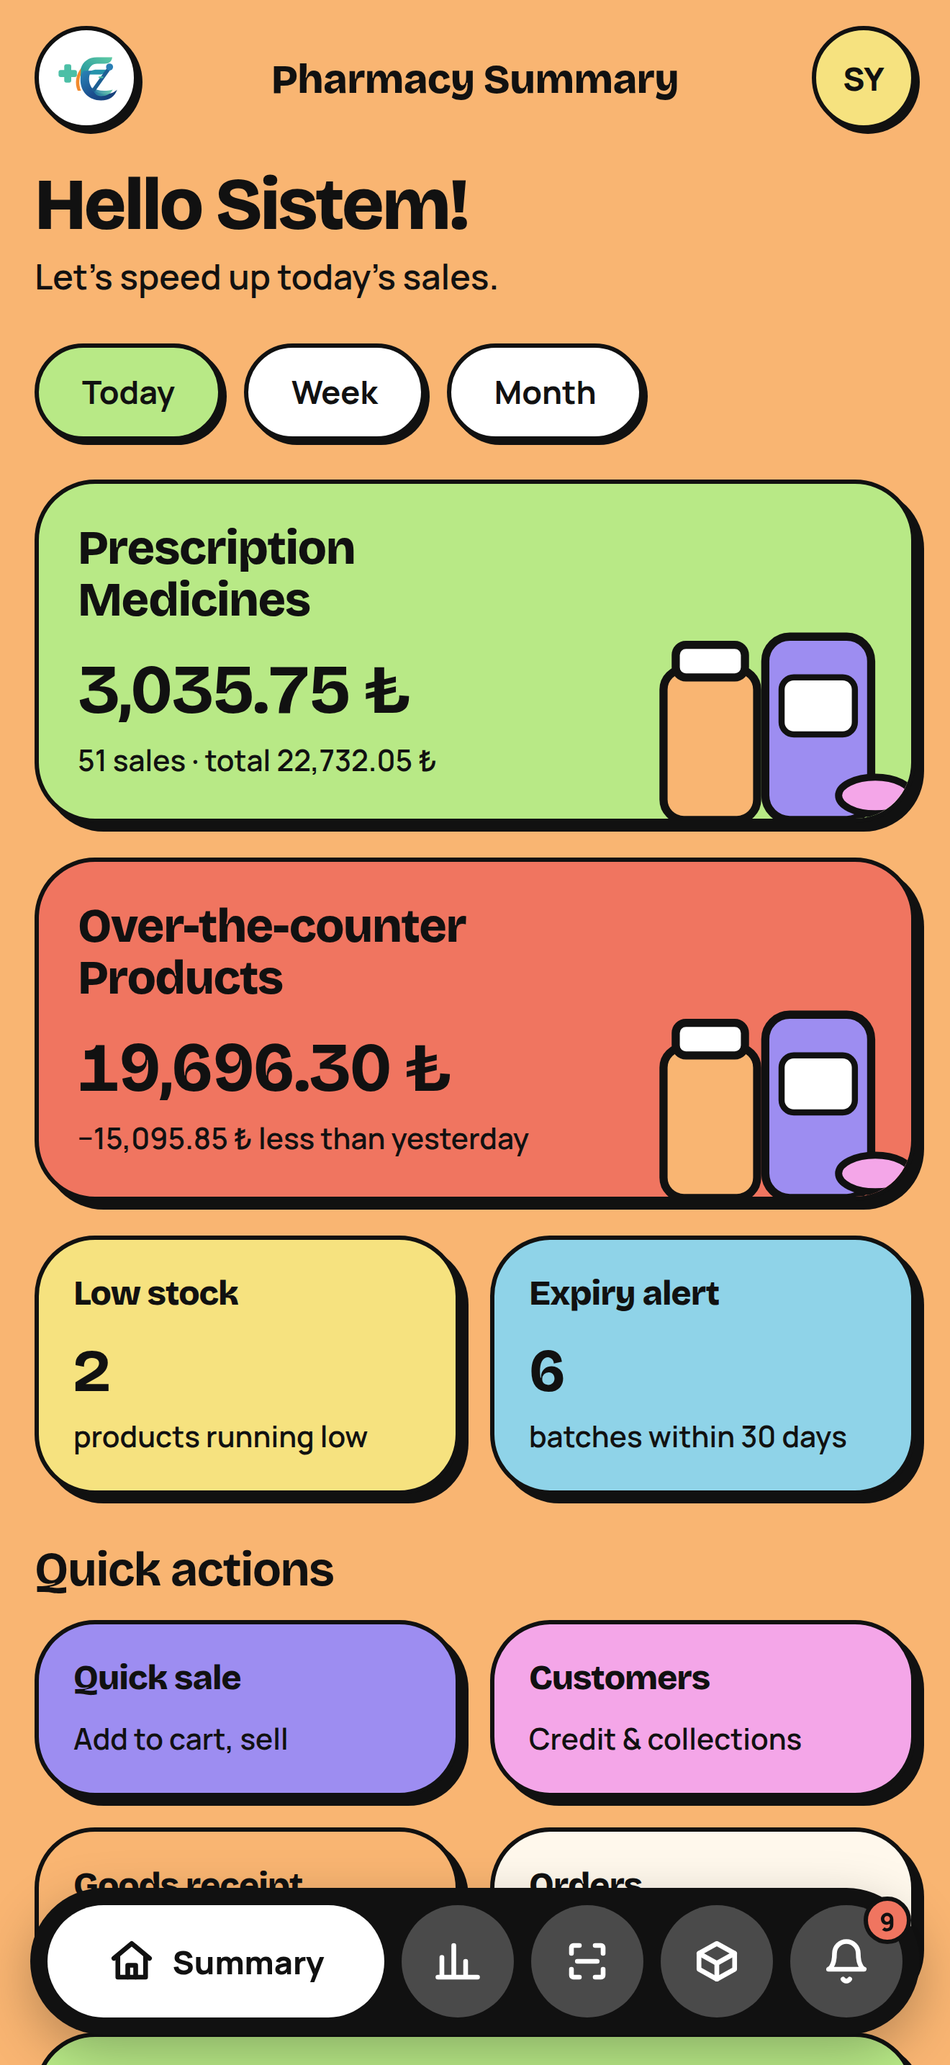
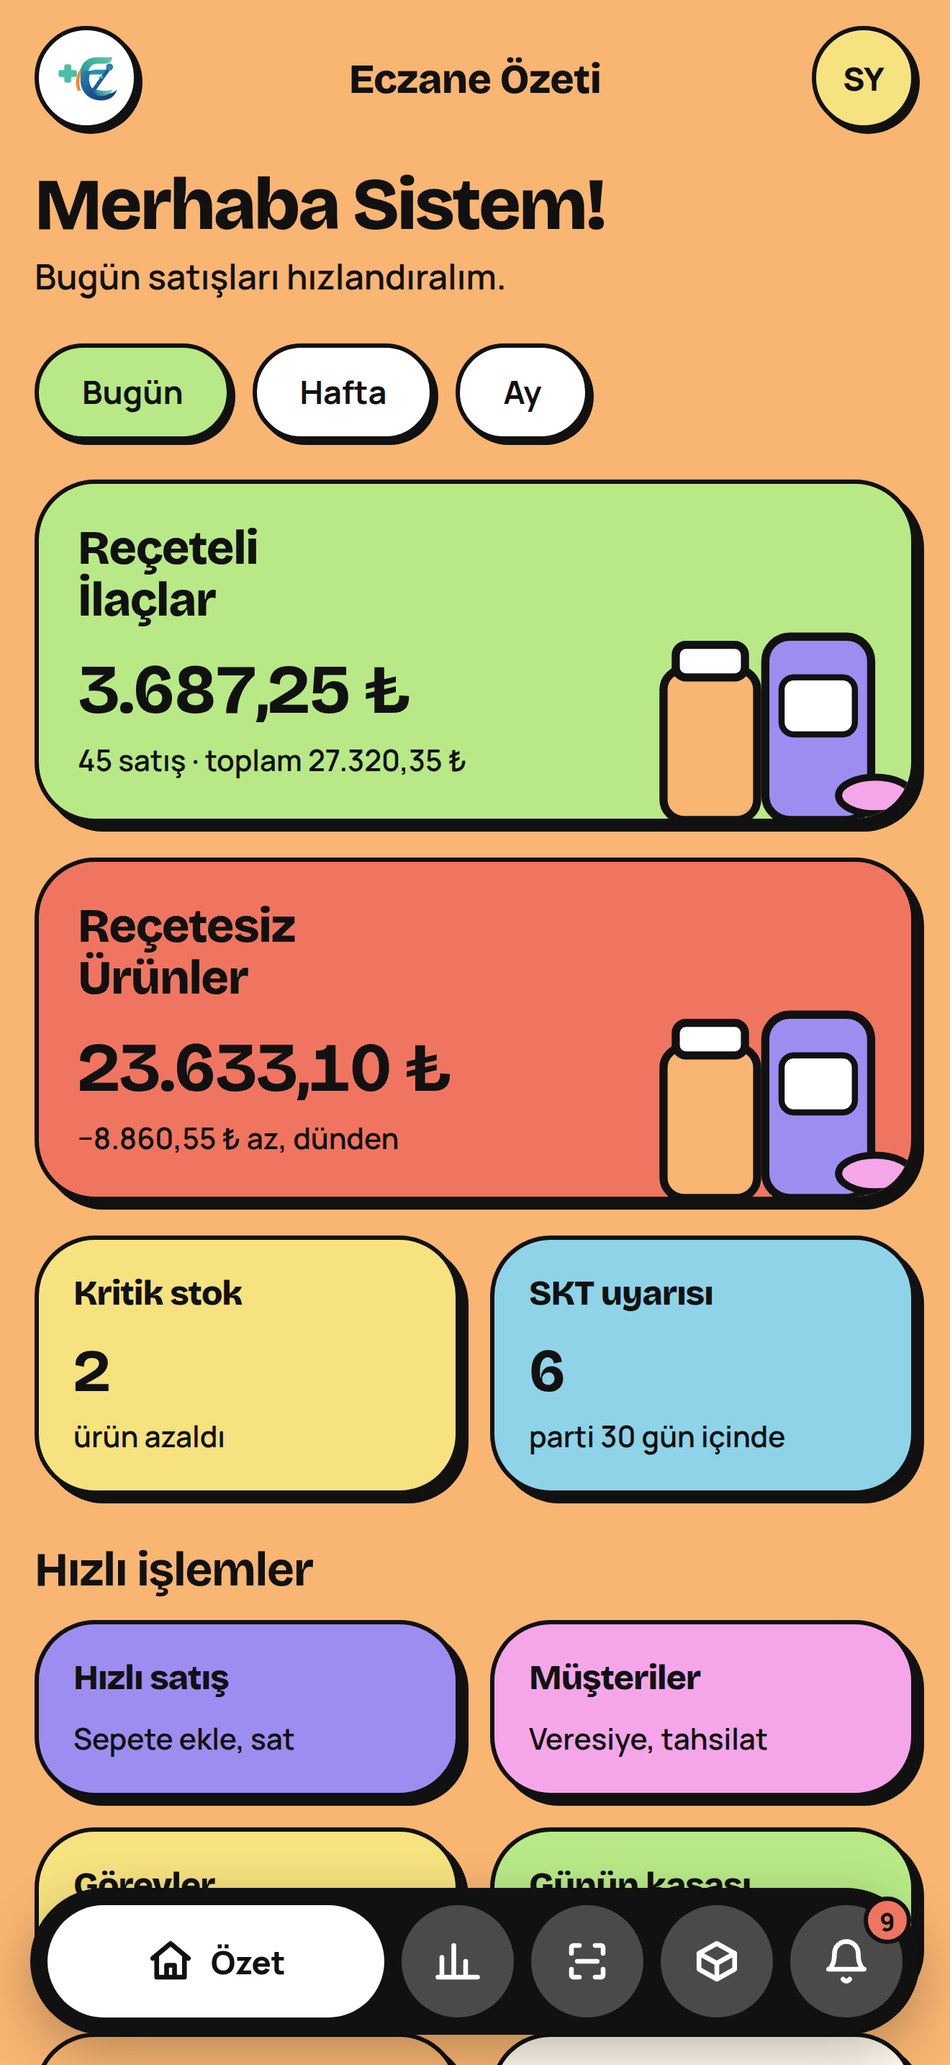
Eczam Mobil: görevler, günün kasası, aylık hedef kartı ve SKT önerisinden kampanya başlatma; mağaza ekran görüntüleri düzeltildi
- Akıllı öneriler: SKT satırlarında receteli ve kampanya_var bayrakları; web kartında kampanya bağlantısı, mobilde tek dokunuşla kampanya başlatma
- Mobil: Görevler (ekle/tamamla), Günün Kasası (salt okunur), Özet'te aylık hedef ilerlemesi; tr/en çeviriler
- Mağaza ekran görüntüleri: Türkçe set önceki sürümde yanlışlıkla İngilizce üretilmişti (tarayıcı dili); tr-TR ile yeniden üretildi

Claude-Session: https://claude.ai/code/session_019sJABA9AuBT3Xyck7b7Ssj

diff --git a/web/public/mobil/mobil-islemler.js b/web/public/mobil/mobil-islemler.js
@@ -119,13 +119,40 @@ window.EczamEklenti = (M) => {
               .map((x) =>
                 x.tur === 'dolmus'
                   ? `<div class="satir"><div class="ad">${esc(x.ad)}<small>${x.parti_no ? 'Parti ' + esc(x.parti_no) : 'Partisiz'} · ${x.miktar} adet · SKT ${tarihKisa(x.skt)}</small></div><span class="rozet kirmizi">Süresi geçti</span></div>`
-                  : `<div class="satir"><div class="ad">${esc(x.ad)}<small>${x.fazla} adet ${x.kalan_gun} gün içinde satılamayabilir · olası zarar ${tl(x.tahmini_zarar)}</small></div><span class="rozet sari">%${x.onerilen_indirim} indirim</span></div>`
+                  : `<div class="satir"><div class="ad">${esc(x.ad)}<small>${x.fazla} adet ${x.kalan_gun} gün içinde satılamayabilir · olası zarar ${tl(x.tahmini_zarar)}</small></div>${
+                      x.kampanya_var
+                        ? '<span class="rozet yesil">Kampanya aktif</span>'
+                        : yonetici() && !x.receteli
+                          ? `<button class="rozet sari" type="button" data-kampanya="${x.ilac_id}" data-yuzde="${x.onerilen_indirim}" data-skt="${esc(x.skt)}" data-ad="${esc(x.ad)}" style="cursor:pointer">Kampanya başlat · %${x.onerilen_indirim}</button>`
+                          : `<span class="rozet sari">%${x.onerilen_indirim} indirim</span>`
+                    }</div>`
               )
               .join('')
           : bos('Yaklaşan riskli parti yok')
       }
       ${o.olu_stok.adet ? `${baslik('Ölü stok')}<p class="alt-yazi">${o.olu_stok.adet} ürün ${o.olu_stok.gun} gündür satılmadı. Bağlı sermaye: <b>${tl(o.olu_stok.bagli_sermaye)}</b></p>${o.olu_stok.ilk.map((u) => `<div class="satir"><div class="ad">${esc(u.ad)}<small>Stok ${u.stok}</small></div><span class="rozet">${tl(u.bagli_sermaye)}</span></div>`).join('')}` : ''}`,
       { geri: true }
+    );
+    uyg.querySelectorAll('[data-kampanya]').forEach((b) =>
+      b.addEventListener('click', async () => {
+        if (!window.confirm(`${b.dataset.ad}: %${b.dataset.yuzde} indirim kampanyası ${tarihKisa(b.dataset.skt)} tarihine kadar başlatılsın mı?`)) return;
+        b.disabled = true;
+        try {
+          await post('/api/kampanyalar', {
+            ad: `SKT indirimi: ${b.dataset.ad}`,
+            tip: 'yuzde',
+            hedef_tip: 'urun',
+            hedef_deger: b.dataset.kampanya,
+            indirim_yuzdesi: Number(b.dataset.yuzde),
+            bitis: b.dataset.skt
+          });
+          toast('Kampanya başlatıldı');
+          oneriEkrani();
+        } catch (e) {
+          b.disabled = false;
+          toast(hataMesaji(e));
+        }
+      })
     );
   }
 
@@ -530,11 +557,106 @@ window.EczamEklenti = (M) => {
       };
   }
 
+  // ---------- Gorevler (yapilacaklar) ----------
+  const ONCELIK = { yuksek: ['Yüksek', 'kirmizi'], orta: ['Orta', 'sari'], dusuk: ['Düşük', 'yesil'] };
+  async function gorevlerEkrani() {
+    cerceve('Görevler', 'bildirim', '<div class="yukleniyor">Yükleniyor…</div>', { geri: true });
+    let liste;
+    try {
+      liste = await get('/api/gorevler', { onbellek: true });
+    } catch (e) {
+      return cerceve('Görevler', 'bildirim', hataKutusu(e), { geri: true });
+    }
+    const bekleyen = liste.filter((g) => g.durum === 'bekliyor');
+    const biten = liste.filter((g) => g.durum === 'tamamlandi').slice(0, 5);
+    const satir = (g) => `<div class="satir"><button class="yuvarlak" data-tamam="${g.id}" data-durum="${g.durum}" style="width:40px;height:40px;flex:none;background:${g.durum === 'tamamlandi' ? 'var(--yesil)' : 'var(--beyaz)'}" aria-label="${g.durum === 'tamamlandi' ? 'Geri al' : 'Tamamla'}">${g.durum === 'tamamlandi' ? '✓' : ''}</button>
+      <div class="ad" style="${g.durum === 'tamamlandi' ? 'text-decoration:line-through;opacity:.6' : ''}">${esc(g.baslik)}<small>${g.atanan_adi ? esc(g.atanan_adi) : 'Herkes'}${g.aciklama ? ' · ' + esc(g.aciklama) : ''}</small></div>
+      ${g.durum === 'bekliyor' ? `<span class="rozet ${(ONCELIK[g.oncelik] || ONCELIK.orta)[1]}">${(ONCELIK[g.oncelik] || ONCELIK.orta)[0]}</span>` : ''}</div>`;
+    cerceve(
+      'Görevler',
+      'bildirim',
+      `${cevrimdisiNot(liste)}
+       <button class="hap siyah" id="g-yeni" style="margin-bottom:12px">+ Yeni görev</button>
+       <div class="kart bg-krem" style="padding:8px 16px">${bekleyen.length ? bekleyen.map(satir).join('') : bos('Bekleyen görev yok 🎉')}</div>
+       ${biten.length ? `${baslik('Son tamamlananlar')}<div class="kart bg-krem" style="padding:8px 16px">${biten.map(satir).join('')}</div>` : ''}`,
+      { geri: true }
+    );
+    uyg.querySelectorAll('[data-tamam]').forEach(
+      (b) =>
+        (b.onclick = async () => {
+          b.disabled = true;
+          try {
+            await put('/api/gorevler/' + b.dataset.tamam, { durum: b.dataset.durum === 'bekliyor' ? 'tamamlandi' : 'bekliyor' });
+            gorevlerEkrani();
+          } catch (e) {
+            b.disabled = false;
+            toast(hataMesaji(e));
+          }
+        })
+    );
+    $('#g-yeni').onclick = () => {
+      const perde = sayfaAc(`<h2 style="font-family:var(--font-baslik);margin:0 0 10px">Yeni görev</h2>
+        <form id="g-form">
+          <label class="etiket" for="g-baslik">Başlık</label><input class="alan" id="g-baslik" maxlength="120" required autocomplete="off" />
+          <label class="etiket" for="g-aciklama" style="margin-top:12px">Not (isteğe bağlı)</label><input class="alan" id="g-aciklama" autocomplete="off" />
+          <div class="cipler" style="margin-top:12px" role="group" aria-label="Öncelik">${[['yuksek', 'Yüksek'], ['orta', 'Orta'], ['dusuk', 'Düşük']].map(([k, a]) => `<button type="button" class="hap ${k === 'orta' ? 'secili' : ''}" data-oncelik="${k}">${a}</button>`).join('')}</div>
+          <button class="hap siyah" type="submit" style="margin-top:8px">Kaydet</button>
+        </form>`);
+      let oncelik = 'orta';
+      perde.querySelectorAll('[data-oncelik]').forEach(
+        (b) =>
+          (b.onclick = () => {
+            oncelik = b.dataset.oncelik;
+            perde.querySelectorAll('[data-oncelik]').forEach((x) => x.classList.toggle('secili', x === b));
+          })
+      );
+      $('#g-form', perde).addEventListener('submit', async (e) => {
+        e.preventDefault();
+        try {
+          await post('/api/gorevler', { baslik: $('#g-baslik', perde).value, aciklama: $('#g-aciklama', perde).value || undefined, oncelik });
+          perde.remove();
+          toast('Görev eklendi');
+          gorevlerEkrani();
+        } catch (err) {
+          toast(hataMesaji(err));
+        }
+      });
+    };
+  }
+
+  // ---------- Gunun kasasi (salt okunur) ----------
+  async function kasaEkrani() {
+    cerceve('Günün Kasası', 'satis', '<div class="yukleniyor">Yükleniyor…</div>', { geri: true });
+    let k;
+    try {
+      k = await get('/api/kasa-kapanislari/ozet', { onbellek: true });
+    } catch (e) {
+      return cerceve('Günün Kasası', 'satis', hataKutusu(e), { geri: true });
+    }
+    const satirlar = [
+      ['Nakit', k.nakit], ['Kart', k.kart], ['SGK', k.sgk], ['Veresiye', k.veresiye]
+    ];
+    cerceve(
+      'Günün Kasası',
+      'satis',
+      `${cevrimdisiNot(k)}
+       <div class="kart bg-yesil"><h2>Günün cirosu</h2><div class="tutar">${tl(k.toplam)}</div>
+         <div class="fark">${k.zaten_kapatildi ? 'Kasa kapatıldı ✓' : 'Kasa henüz kapatılmadı'}</div></div>
+       <div class="kart bg-krem" style="padding:8px 16px">${satirlar.map(([a, v]) => `<div class="satir"><div class="ad">${a}</div><span class="rozet">${tl(v)}</span></div>`).join('')}
+         ${k.tahsilat ? `<div class="satir"><div class="ad">Veresiye tahsilatı<small>Nakit/kart toplamına dahil</small></div><span class="rozet yesil">${tl(k.tahsilat)}</span></div>` : ''}
+         ${k.iade ? `<div class="satir"><div class="ad">İadeler</div><span class="rozet kirmizi">${tl(k.iade)}</span></div>` : ''}</div>
+       <p class="alt-yazi">Kasa kapanışı bilgisayardan yapılır.</p>`,
+      { geri: true }
+    );
+  }
+
   return {
     oneri: oneriEkrani,
     'hizli-satis': () => hizliSatisEkrani(),
     musteriler: musterilerEkrani,
     siparisler: siparislerEkrani,
-    'mal-kabul': malKabulEkrani
+    'mal-kabul': malKabulEkrani,
+    gorevler: gorevlerEkrani,
+    kasa: kasaEkrani
   };
 };

diff --git a/web/public/mobil/mobil-dil.js b/web/public/mobil/mobil-dil.js
@@ -96,9 +96,14 @@
     'Gelen ürünü barkodla okutun ya da arayın; adet, SKT ve parti girin.': 'Scan or search the incoming product; enter quantity, expiry and batch.', 'Henüz ürün eklenmedi.': 'No products added yet.',
     'Parti no': 'Batch no.', 'Son kullanma tarihi': 'Expiry date', 'Fatura no (isteğe bağlı)': 'Invoice no. (optional)', 'Vazgeç': 'Cancel', 'Stoğa girildi ✓': 'Added to stock ✓', 'Tamam': 'OK',
     'Sipariş': 'Order',
-    // Akilli oneriler
     'Bugünün özeti': "Today's summary", 'Stoğu bitiyor': 'Running out', 'SKT için öneri': 'Expiry suggestions', 'Ölü stok': 'Dead stock', 'Stoklar rahat görünüyor 👍': 'Stock levels look comfortable 👍',
-    'Yaklaşan riskli parti yok': 'No risky batches coming up', 'Bitti': 'Sold out', 'Yarın biter': 'Ends tomorrow', 'Süresi geçti': 'Expired', 'En çok satan:': 'Top seller:'
+    'Yaklaşan riskli parti yok': 'No risky batches coming up', 'Kampanya aktif': 'Campaign active', 'Kampanya başlatıldı': 'Campaign started', 'Bitti': 'Sold out', 'Yarın biter': 'Ends tomorrow', 'Süresi geçti': 'Expired', 'En çok satan:': 'Top seller:',
+    // Gorevler, kasa, hedef
+    'Görevler': 'Tasks', 'Yapılacaklar listesi': 'To-do list', 'Günün kasası': "Today's till", 'Günün Kasası': "Today's Till", 'Nakit, kart, veresiye': 'Cash, card, credit',
+    '+ Yeni görev': '+ New task', 'Yeni görev': 'New task', 'Başlık': 'Title', 'Not (isteğe bağlı)': 'Note (optional)', 'Öncelik': 'Priority', 'Yüksek': 'High', 'Orta': 'Medium', 'Düşük': 'Low',
+    'Bekleyen görev yok 🎉': 'No pending tasks 🎉', 'Son tamamlananlar': 'Recently completed', 'Herkes': 'Everyone', 'Görev eklendi': 'Task added', 'Tamamla': 'Complete', 'Geri al': 'Undo',
+    'Günün cirosu': "Today's revenue", 'Kasa kapatıldı ✓': 'Till closed ✓', 'Kasa henüz kapatılmadı': 'Till not closed yet', 'SGK': 'SGK (insurance)', 'Veresiye tahsilatı': 'Credit collections',
+    'Nakit/kart toplamına dahil': 'Included in cash/card totals', 'İadeler': 'Refunds', 'Kasa kapanışı bilgisayardan yapılır.': 'Till closing is done from the computer.', 'Aylık hedef': 'Monthly target'
   };
 
   // Birlesik / degiskenli metinler icin kurallar: [desen, uretici]
@@ -124,6 +129,8 @@
     [/^SKT'ye \((\d+) gün\) kadar satılamayabilir$/, (m) => `may not sell within ${m[1]} days of expiry`],
     [/^(\d+) adet (\d+) gün içinde satılamayabilir$/, (m) => `${m[1]} pcs may not sell within ${m[2]} days`],
     [/^olası zarar (.+)$/, (m) => `possible loss ${m[1]}`],
+    [/^Kampanya başlat · %(\d+)$/, (m) => `Start campaign · ${m[1]}% off`],
+    [/^(.+): %(\d+) indirim kampanyası (.+) tarihine kadar başlatılsın mı\?$/, (m) => `Start a ${m[2]}% discount campaign for ${m[1]} until ${m[3]}?`],
     [/^%(\d+) indirim$/, (m) => `${m[1]}% off`],
     [/^(\d+) ürün (\d+) gündür satılmadı\. Bağlı sermaye: (.+)$/, (m) => `${m[1]} products have not sold for ${m[2]} days. Capital tied up: ${m[3]}`],
     [/^(\d+) gündür bekliyor$/, (m) => `waiting ${m[1]} days`],
@@ -145,6 +152,7 @@
     [/^Kronik: (.+)$/, (m) => `Chronic: ${m[1]}`],
     [/^Alerji: (.+)$/, (m) => `Allergy: ${m[1]}`],
     [/^Kamera açılamadı \((izin verilmedi|.+)\)\. Barkodu elle yazabilirsiniz\.$/, (m) => `Could not open the camera (${m[1] === 'izin verilmedi' ? 'permission denied' : m[1]}). You can type the barcode.`],
+    [/^(.+) \/ (.+?)(?: · günde (.+) gerekli)?$/, (m) => (/₺/.test(m[1]) ? `${m[1]} / ${m[2]}${m[3] ? ` · ${m[3]}/day needed` : ''}` : null)],
     [/^\((\d+) adet\)$/, (m) => `(${m[1]} pcs)`],
     [/^(Pzt|Sal|Çar|Per|Cum|Cmt|Paz): (.+)$/, (m) => `${SOZLUK[m[1]]}: ${m[2]}`]
   ];

diff --git a/web/public/mobil/mobil.js b/web/public/mobil/mobil.js
@@ -297,6 +297,7 @@
     } catch (e) {
       return cerceve('Eczane Özeti', 'ozet', hataKutusu(e));
     }
+    const hedef = await get('/api/hedefler/aktif', { onbellek: true }).catch(() => null);
     const ad = (oturum.kullanici.ad_soyad || '').split(' ')[0];
     cerceve(
       'Eczane Özeti',
@@ -319,10 +320,19 @@
         <a class="kart kart-dokun bg-sari" href="#/urunler?filtre=kritik"><h2>Kritik stok</h2><div class="tutar">${d.kritik_stok}</div><div class="fark" style="max-width:none">ürün azaldı</div></a>
         <a class="kart kart-dokun bg-mavi" href="#/urunler?filtre=skt"><h2>SKT uyarısı</h2><div class="tutar">${d.skt_yakin}</div><div class="fark" style="max-width:none">parti 30 gün içinde</div></a>
       </div>
+      ${
+        hedef && hedef.hedef
+          ? `<a class="kart kart-dokun bg-mor" href="#/satis" style="margin-top:14px"><h2>Aylık hedef</h2><div class="tutar">%${Math.round(hedef.yuzde)}</div>
+              <div class="fark" style="max-width:none">${tl(hedef.gerceklesen)} / ${tl(hedef.hedef)}${hedef.gunluk_gereken ? ` · günde ${tl(hedef.gunluk_gereken)} gerekli` : ''}</div>
+              <div style="height:12px;border:2.5px solid var(--cizgi);border-radius:999px;background:var(--beyaz);margin-top:10px;overflow:hidden"><div style="height:100%;width:${Math.min(100, hedef.yuzde)}%;background:var(--yesil)"></div></div></a>`
+          : ''
+      }
       <h3 class="bolum-baslik">Hızlı işlemler</h3>
       <div class="kart-ikili">
         <a class="kart kart-dokun bg-mor" href="#/hizli-satis"><h2>Hızlı satış</h2><div class="fark" style="max-width:none">Sepete ekle, sat</div></a>
         <a class="kart kart-dokun bg-pembe" href="#/musteriler"><h2>Müşteriler</h2><div class="fark" style="max-width:none">Veresiye, tahsilat</div></a>
+        <a class="kart kart-dokun bg-sari" href="#/gorevler"><h2>Görevler</h2><div class="fark" style="max-width:none">Yapılacaklar listesi</div></a>
+        <a class="kart kart-dokun bg-yesil" href="#/kasa"><h2>Günün kasası</h2><div class="fark" style="max-width:none">Nakit, kart, veresiye</div></a>
         ${
           ['admin', 'eczaci'].includes(oturum.kullanici.rol)
             ? `<a class="kart kart-dokun bg-turuncu" href="#/mal-kabul"><h2>Mal kabul</h2><div class="fark" style="max-width:none">Gelen malı okut</div></a>

diff --git a/web/server/oneriler.js b/web/server/oneriler.js
@@ -34,12 +34,21 @@ function sktIndirim(subeId, bugun, pencere = 90) {
   const hiz = new Map(stokYeterlilik(subeId).map((r) => [r.ilac_id, r.gunluk_ortalama]));
   const partiler = db
     .prepare(
-      `SELECT p.id, p.ilac_id, i.ad, i.alis_fiyati, i.satis_fiyati, p.parti_no, p.skt, p.miktar
+      `SELECT p.id, p.ilac_id, i.ad, i.alis_fiyati, i.satis_fiyati, i.receteli, p.parti_no, p.skt, p.miktar
        FROM ilac_partileri p JOIN ilaclar i ON i.id = p.ilac_id
        WHERE p.sube_id = ? AND p.miktar > 0 AND p.skt IS NOT NULL AND p.skt <= date(?, ?)
        ORDER BY p.skt`
     )
     .all(subeId, bugun, `+${pencere} days`);
+  // Urun icin zaten gecerli (aktif, suresi dolmamis) bir kampanya varsa tekrar onerilmez
+  const kampanyali = new Set(
+    db
+      .prepare(
+        `SELECT hedef_deger FROM kampanyalar WHERE aktif = 1 AND hedef_tip = 'urun' AND (bitis IS NULL OR bitis >= ?)`
+      )
+      .all(bugun)
+      .map((k) => String(k.hedef_deger))
+  );
   const gunFarki = (skt) => Math.round((Date.parse(skt + 'T00:00:00Z') - Date.parse(bugun + 'T00:00:00Z')) / 86400000);
   const sonuc = [];
   for (const p of partiler) {
@@ -61,12 +70,13 @@ function sktIndirim(subeId, bugun, pencere = 90) {
       tahmini_zarar: yuvarla(fazla * p.alis_fiyati)
     });
   }
+  for (const x of sonuc) x.kampanya_var = kampanyali.has(String(x.ilac_id)) ? 1 : 0;
   // Suresi dolmuslar once, sonra en cok zarar riski olanlar
   return sonuc.sort((a, b) => (a.tur === 'dolmus' ? -1 : 0) - (b.tur === 'dolmus' ? -1 : 0) || b.tahmini_zarar - a.tahmini_zarar);
 }
 
 function ozet(p, kalan) {
-  return { parti_id: p.id, ilac_id: p.ilac_id, ad: p.ad, parti_no: p.parti_no, skt: p.skt, kalan_gun: kalan, miktar: p.miktar, satis_fiyati: p.satis_fiyati };
+  return { parti_id: p.id, ilac_id: p.ilac_id, ad: p.ad, parti_no: p.parti_no, skt: p.skt, kalan_gun: kalan, miktar: p.miktar, satis_fiyati: p.satis_fiyati, receteli: p.receteli ? 1 : 0 };
 }
 
 function oluStok(subeId, gun = 90) {

diff --git a/web/tests/oneriler.test.js b/web/tests/oneriler.test.js
@@ -101,3 +101,24 @@ test('ölü stok ve gün sonu özeti', async () => {
   assert.ok(g.kar > 0 && g.kar < g.ciro);
   assert.equal(g.en_cok_satan.adet, 2);
 });
+
+test('SKT önerisi: reçeteli ürün işaretlenir, aktif kampanyası olan ürün kampanya_var olur', async () => {
+  const [a, , c] = db.prepare('SELECT id FROM ilaclar ORDER BY id LIMIT 3').all();
+  // c ürününün GECMIS-1 partisi var (önceki testte); c reçeteli yapılır, b için kampanya açılır
+  const b = db.prepare("SELECT ilac_id FROM ilac_partileri WHERE parti_no = 'YAKIN-1'").get();
+  db.prepare('UPDATE ilaclar SET receteli = 1 WHERE id = ?').run(c.id);
+  let o = (await kasiyer.get('/api/oneriler')).data;
+  assert.equal(o.skt_indirim.find((x) => x.parti_no === 'GECMIS-1').receteli, 1);
+  const yakin = o.skt_indirim.find((x) => x.parti_no === 'YAKIN-1');
+  assert.equal(yakin.receteli, 0);
+  assert.equal(yakin.kampanya_var, 0);
+
+  db.prepare("INSERT INTO kampanyalar (ad, tip, hedef_tip, hedef_deger, indirim_yuzdesi, bitis, aktif) VALUES ('SKT', 'yuzde', 'urun', ?, 30, date('now', '+10 days'), 1)").run(String(b.ilac_id));
+  o = (await kasiyer.get('/api/oneriler')).data;
+  assert.equal(o.skt_indirim.find((x) => x.parti_no === 'YAKIN-1').kampanya_var, 1);
+  // süresi dolmuş kampanya sayılmaz
+  db.prepare("UPDATE kampanyalar SET bitis = date('now', '-3 days')").run();
+  o = (await kasiyer.get('/api/oneriler')).data;
+  assert.equal(o.skt_indirim.find((x) => x.parti_no === 'YAKIN-1').kampanya_var, 0);
+  assert.ok(a);
+});

diff --git a/web/public/js/views/anasayfa.js b/web/public/js/views/anasayfa.js
@@ -262,7 +262,13 @@ const AnaSayfaView = (() => {
           .map((x) =>
             x.tur === 'dolmus'
               ? `<li><span class="islem-metin"><b>${UI.esc(x.ad)}</b><small>${x.parti_no ? 'Parti ' + UI.esc(x.parti_no) : 'Partisiz'} · ${x.miktar} adet · SKT ${UI.esc(x.skt)}</small></span><span class="oneri-etiket tehlike">Süresi geçti</span></li>`
-              : `<li><span class="islem-metin"><b>${UI.esc(x.ad)}</b><small>${x.fazla} adet SKT'ye (${x.kalan_gun} gün) kadar satılamayabilir · olası zarar ${UI.tl(x.tahmini_zarar)}</small></span><span class="oneri-etiket uyari">%${x.onerilen_indirim} indirim</span></li>`
+              : `<li><span class="islem-metin"><b>${UI.esc(x.ad)}</b><small>${x.fazla} adet SKT'ye (${x.kalan_gun} gün) kadar satılamayabilir · olası zarar ${UI.tl(x.tahmini_zarar)}</small></span>${
+                  x.kampanya_var
+                    ? '<span class="oneri-etiket iyi">Kampanya aktif</span>'
+                    : yoneticiMi && !x.receteli
+                      ? `<a class="oneri-etiket uyari oneri-link" href="#kampanyalar" title="Kampanyalar sayfasında önerilen indirimle başlatın">%${x.onerilen_indirim} indirim · Kampanya aç</a>`
+                      : `<span class="oneri-etiket uyari">%${x.onerilen_indirim} indirim</span>`
+                }</li>`
           )
           .join('')
       : bos('Yaklaşan riskli parti yok');

diff --git a/web/tests/mobil.test.js b/web/tests/mobil.test.js
@@ -111,9 +111,9 @@ test('mobil işlem ekranları: eklenti dosyası mobil.js’ten önce yüklenir v
   const sw = fs.readFileSync(path.join(kok, 'sw.js'), 'utf8');
   assert.match(sw.match(/const KABUK = \[([\s\S]*?)\];/)[1], /\/mobil\/mobil-islemler\.js/);
   const eklenti = fs.readFileSync(path.join(kok, 'mobil-islemler.js'), 'utf8');
-  for (const ekran of ['oneri', "'hizli-satis'", 'musteriler', 'siparisler', "'mal-kabul'"]) assert.ok(eklenti.includes(ekran), ekran);
+  for (const ekran of ['oneri', "'hizli-satis'", 'musteriler', 'siparisler', "'mal-kabul'", 'gorevler', 'kasa']) assert.ok(eklenti.includes(ekran), ekran);
   // Cekirdek hala ekranlari yonlendiriyor
   const cekirdek = fs.readFileSync(path.join(kok, 'mobil.js'), 'utf8');
   assert.match(cekirdek, /window\.EczamEklenti/);
-  for (const yol of ['#/hizli-satis', '#/musteriler', '#/mal-kabul', '#/siparisler', '#/oneri']) assert.ok(cekirdek.includes(yol), yol);
+  for (const yol of ['#/hizli-satis', '#/musteriler', '#/mal-kabul', '#/siparisler', '#/oneri', '#/gorevler', '#/kasa']) assert.ok(cekirdek.includes(yol), yol);
 });

diff --git a/web/public/css/style.css b/web/public/css/style.css
@@ -902,3 +902,6 @@ kbd {
 .oneri-not { margin: 6px 0 0; font-size: 13px; color: var(--text-muted); }
 @media (max-width: 1100px) { .oneri-sutunlar { grid-template-columns: 1fr; gap: 16px; } }
 @media (max-width: 760px) { .gun-sonu b { font-size: 16px; } .p-oneri { min-width: 0; overflow: hidden; } }
+.oneri-etiket.iyi { background: color-mix(in srgb, var(--success) 18%, transparent); color: var(--success); }
+.oneri-link { text-decoration: none; cursor: pointer; }
+.oneri-link:hover { filter: brightness(0.95); }
